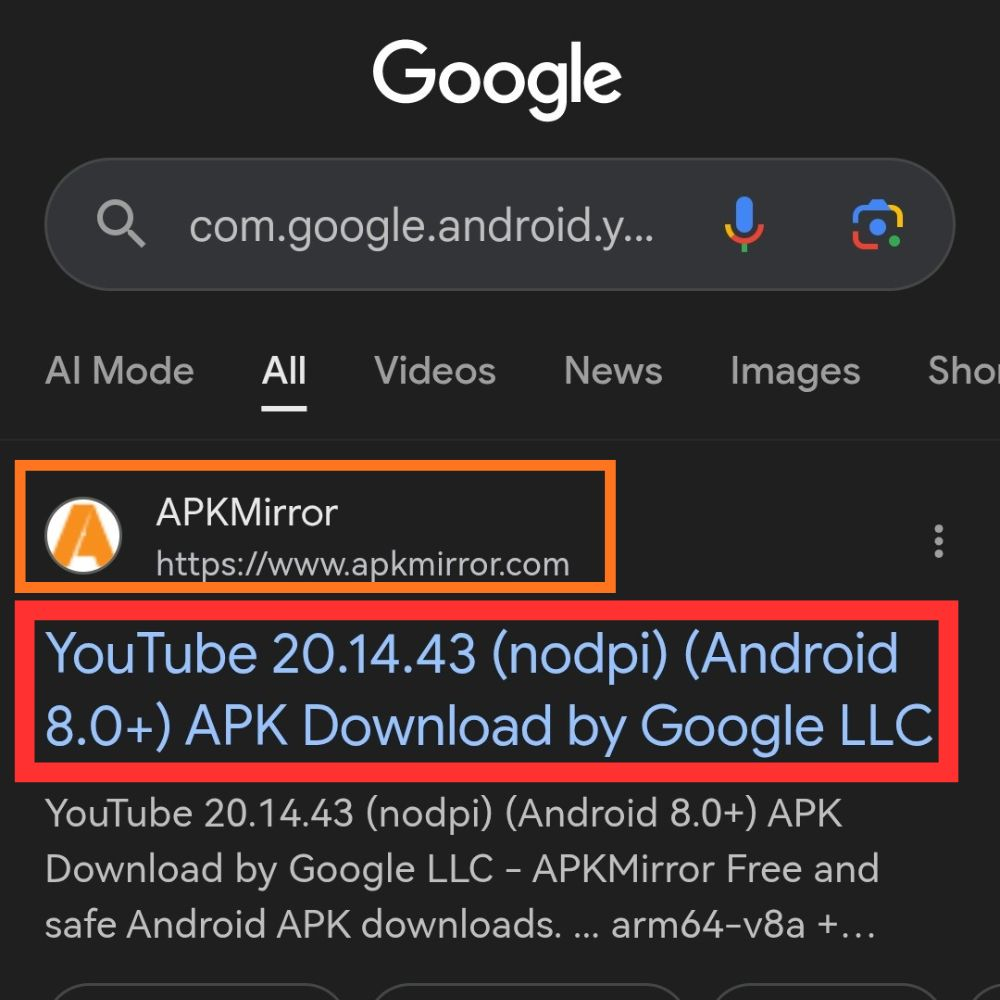
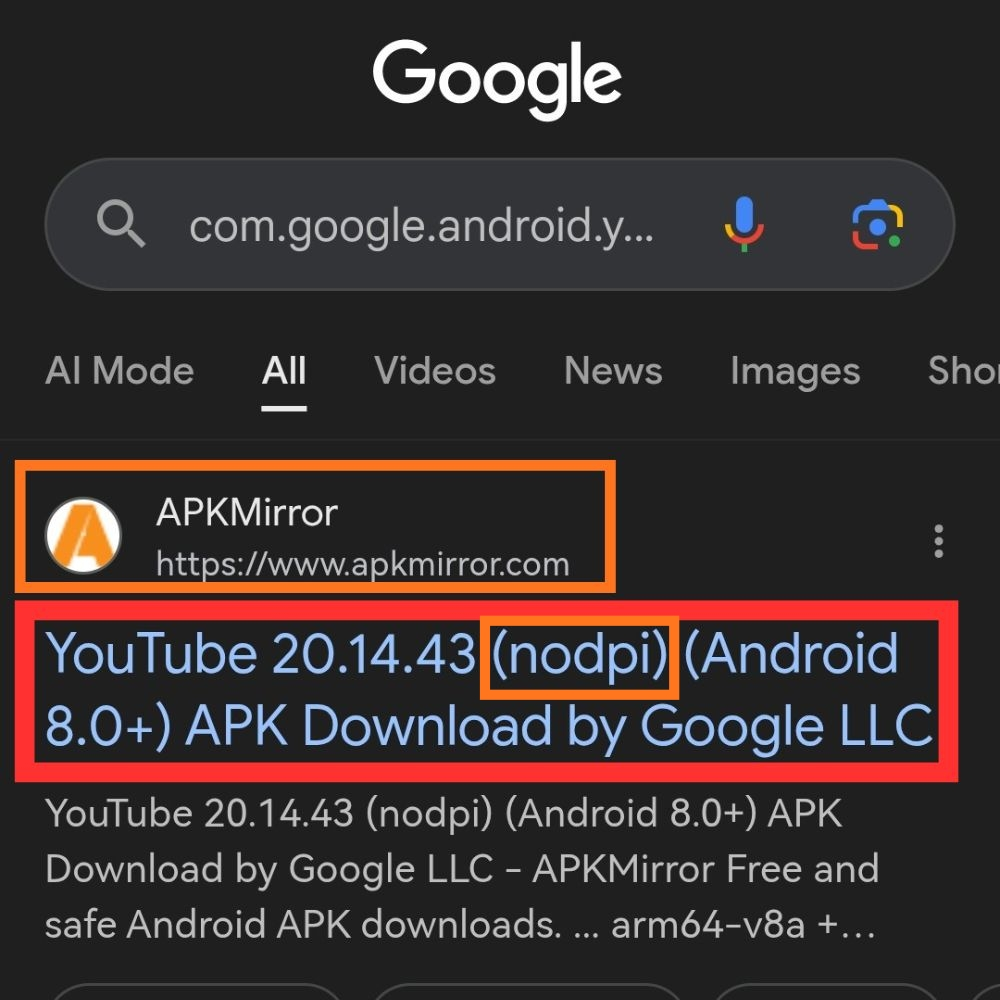
YT ReVanced post: Emphasize to use nodpi APK

Changed region(s): [[0.465, 0.589, 0.682, 0.713]]

diff --git a/_posts/2025-09-22-youtube-revanced-manager-the-best-guide-for-dummies.md b/_posts/2025-09-22-youtube-revanced-manager-the-best-guide-for-dummies.md
@@ -52,7 +52,7 @@ This guide will teach you how to install YouTube with no ads using **ReVanced Ma
 
 ![Revanced3](/assets/Revanced/Revanced3.jpg){: .w-75 .shadow .rounded-10 }
 
-8. Click on the first APKMirror link and scroll down to click the red **Download** button.  
+8. Click on the first APKMirror link for the **nodpi** APK and scroll down to click the red **Download** button.  
 
 > **Important:** Do **not** install the APK yet — you’ll patch it first using ReVanced Manager.
 {: .prompt-warning }
